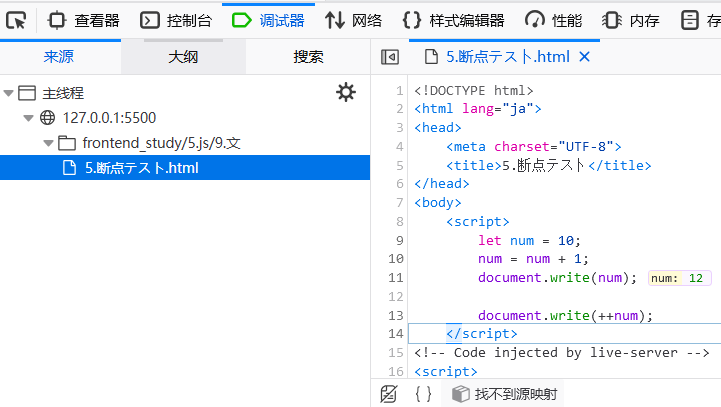
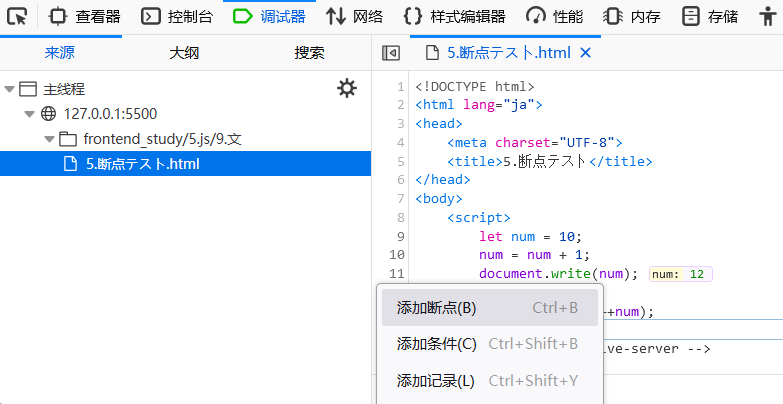
pic correct
title

Changed region(s): [[0.0, 0.0, 1.0, 1.0], [0.0, 0.2079, 0.5187, 0.4455], [0.5492, 0.6238, 0.5798, 0.6535]]

diff --git a/js笔记/js笔记day2.md b/js笔记/js笔记day2.md
@@ -153,4 +153,5 @@
 	}
 ```
 ### *5. 断点调试*
-找到调试器 - 项目html文件，![[断点测试.png]](https://github.com/inabananami/obsidian-backup/blob/main/js%E7%AC%94%E8%AE%B0/%E6%96%AD%E7%82%B9%E6%B5%8B%E8%AF%95.png)
+找到调试器 - 项目html文件，右键代码行数栏，选择添加断点。就可以看到num在代码行中的数值。
+![[断点测试.png]]
